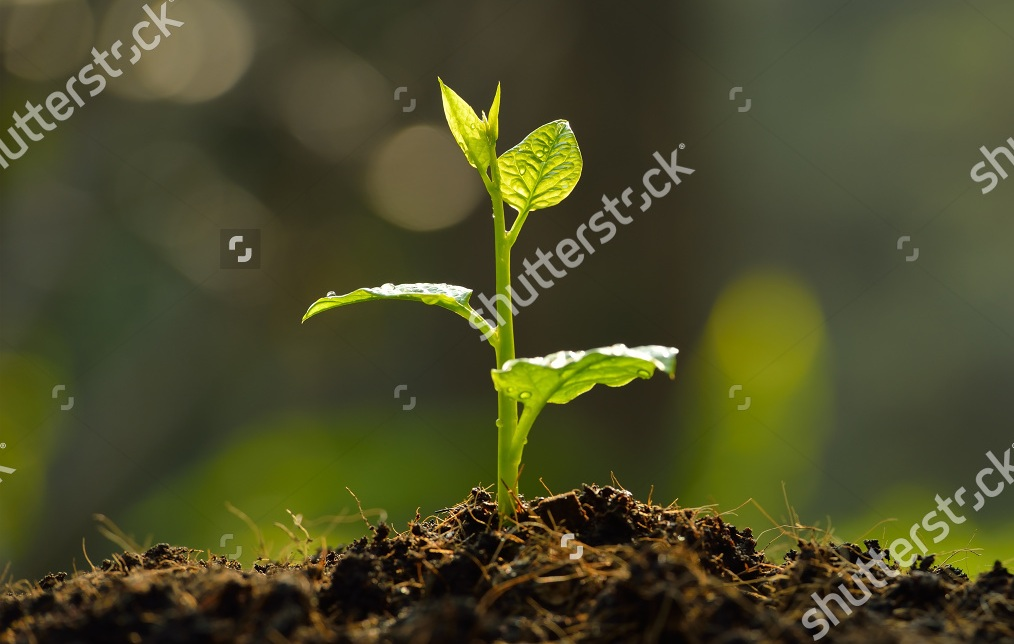
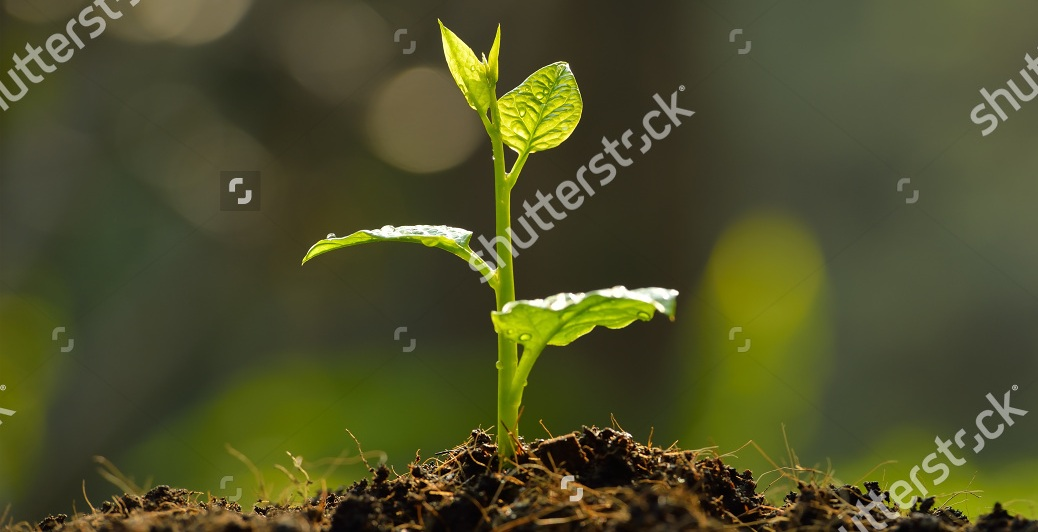
Swap position of page header. Add lighter background.

diff --git a/sass/style.scss b/sass/style.scss
@@ -16,7 +16,8 @@ $colorRed: #a81434;
 $colorBlue: #1434a8;
 $colorLightGreen: #92A270;
 $colorLightGreenBrighter: #9BB95B;
-$colorText: $colorBlue;
+
+$colorText: $colorBrown;
 
 $navbarHeight: 50px;
 $headerHeight: 100vh;
@@ -24,6 +25,8 @@ $socialLinksSize: 20px;
 $fontBrand: "Indie Flower", cursive;
 $fontMonospace: "Source Code Pro", monospace;
 $fontAdam: 'Adam CG Pro', sans-serif;
+
+$colorWhiteGreen: #A9DA88;
 
 @import 'adamcgpro';
 /* NOTE: Will need to use "Autoprefixer" */
@@ -36,7 +39,7 @@ body {
   // padding-top: $navbarHeight;
   padding-bottom: 20px;
   
-  background-color: $colorBrown;
+  background-color: $colorWhiteGreen;
   color: $colorText;
 }
 
@@ -67,7 +70,7 @@ body {
     background-size: 100%;
   }
   
-  background-position: bottom right;
+  background-position: bottom center;
   // box-shadow: inset 0 -16px 16px -10px $colorBrown, 
               // 0 16px 16px -10px $colorBrown;
 }
@@ -104,7 +107,7 @@ body {
 
 //*************************************** Page Title ***************************************
 #containerTitle{
-  position: absolute;
+  // position: absolute;
   // top: $navbarHeight;
 }
 #title {

diff --git a/css/style.css b/css/style.css
@@ -14,8 +14,8 @@ body {
   /* From Bootstrap Jumbotron: */
   /* Move down content because we have a fixed navbar that is $navbarHeight tall */
   padding-bottom: 20px;
-  background-color: #0A0906;
-  color: #1434a8; }
+  background-color: #A9DA88;
+  color: #0A0906; }
 
 #containerHeaderImage {
   position: absolute;
@@ -31,7 +31,7 @@ body {
   background-image: url("../img/shutterstock_centered.jpg");
   background-repeat: no-repeat;
   background-size: cover;
-  background-position: bottom right; }
+  background-position: bottom center; }
   @media (min-aspect-ratio: 2 / 1) {
     #headerImage {
       background-size: 100%; } }
@@ -56,9 +56,6 @@ body {
   @media (min-aspect-ratio: 2 / 1) {
     #rootsImage {
       background-size: 100%; } }
-
-#containerTitle {
-  position: absolute; }
 
 #title h1 {
   font-family: "Adam CG Pro", sans-serif;

diff --git a/index.html b/index.html
@@ -92,16 +92,16 @@
 </div>
 
 <div id="containerTitle" class="container-fluid">
+</div>
+
+<div id="containerContent" class="container">
   <div id="title">
     <div class="row">
-      <div class="col-sm-offset- col-xs-3">
+      <div class="col-sm-offset-0 col-xs-12">
         <h1>Seedling Design Systems</h1>
       </div>
     </div>
   </div>
-</div>
-
-<div id="containerContent" class="container">
   <section id="about">
     <div class="row">
       <div id="intro" class="col-sm-6 col-md-8 col-lg-8">
